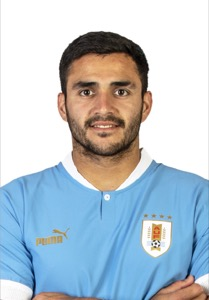
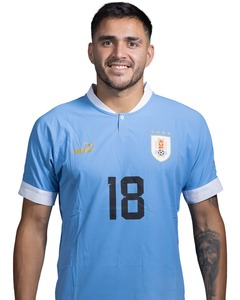
Add player profiles: Godín, Cavani, Coates, Cáceres, Sosa; update Maxi Gómez photo

diff --git a/public/index.html b/public/index.html
@@ -9125,6 +9125,14 @@ const JUGADORES={
   'Kevin Martínez':          {auf:null,pos:null, club:null,pais:'',foto:'./fotos/kevin-martinez.jpg',wc26:false,sub20:true,total:null,comp:null},
   'Juan Rodríguez':          {auf:null,pos:null, club:null,pais:'',foto:'./fotos/juan-rodriguez.jpg',wc26:false,sub20:true,total:null,comp:null},
   'Patricio Pacífico':       {auf:null,pos:null, club:null,pais:'',foto:'./fotos/patricio-pacifico.jpg',wc26:false,sub20:true,total:null,comp:null},
+  // ═══════════════════════════════════════════════════════
+  //  CICLO ALONSO — ERA 2022
+  // ═══════════════════════════════════════════════════════
+  'Diego Godín':         {auf:'diego-godin',        pos:'DEF',club:'Vélez Sarsfield',    pais:'🇦🇷',foto:'./fotos/diego-godin.jpg',   wc26:false,total:{pj:161,min:13886,g:8}, comp:{ca:{pj:18},wc:{pj:16},el:{pj:65},am:{pj:58}}},
+  'Edinson Cavani':      {auf:'edinson-cavani',      pos:'DEL',club:'Boca Juniors',       pais:'🇦🇷',foto:'./fotos/edinson-cavani.jpg', wc26:false,total:{pj:136,min:9924,g:58},comp:{ca:{pj:19,g:13},wc:{pj:17,g:10},el:{pj:49,g:22},am:{pj:47,g:13}}},
+  'Sebastián Coates':    {auf:'sebastian-coates',   pos:'DEF',club:'Sporting CP',        pais:'🇵🇹',foto:'./fotos/sebastian-coates.jpg',wc26:false,total:{pj:51,min:3607,g:2}, comp:{ca:{pj:7},wc:{pj:4},el:{pj:15},am:{pj:23}}},
+  'Martín Cáceres':      {auf:'martin-caceres',     pos:'DEF',club:'LA Galaxy',          pais:'🇺🇸',foto:'./fotos/martin-caceres.jpg', wc26:false,total:{pj:116,min:9524,g:4},comp:{ca:{pj:12},wc:{pj:12},el:{pj:41},am:{pj:47}}},
+  'Sebastián Sosa':      {auf:'sebastian-sosa',     pos:'POR',club:'Independiente',      pais:'🇦🇷',foto:'./fotos/sebastian-sosa.jpg', wc26:false,total:null,comp:null},
 };
 
 // ── CONVOCATORIAS BIELSA ──────────────────────────────────────────────────